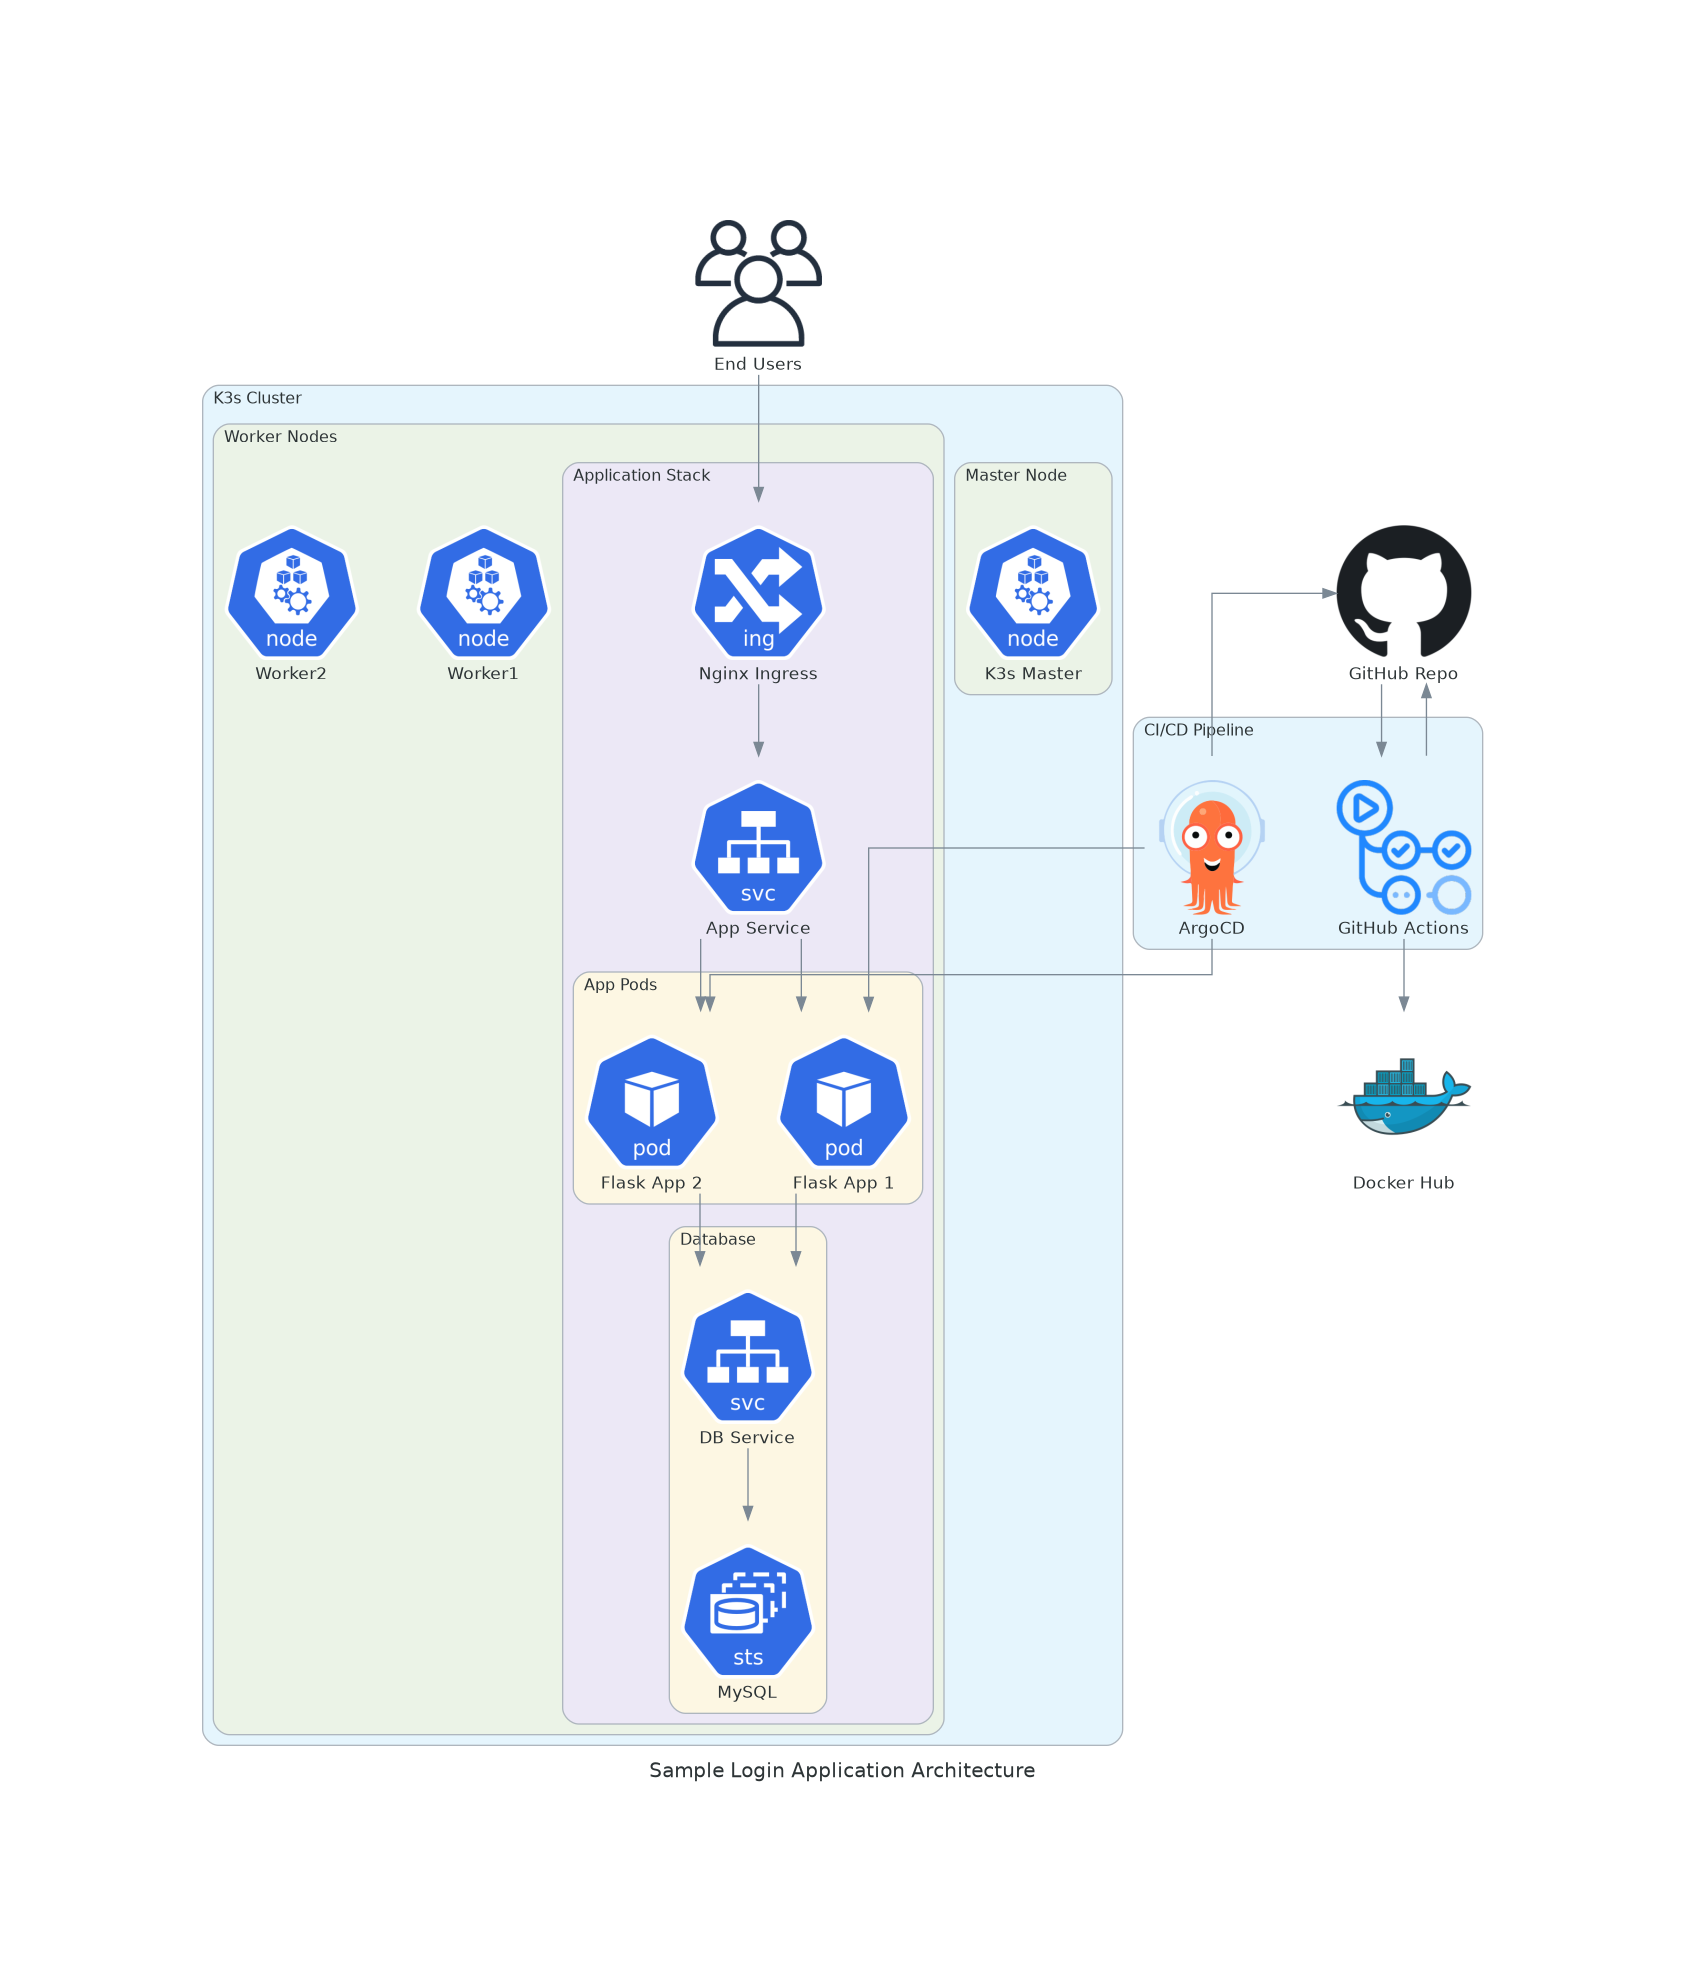
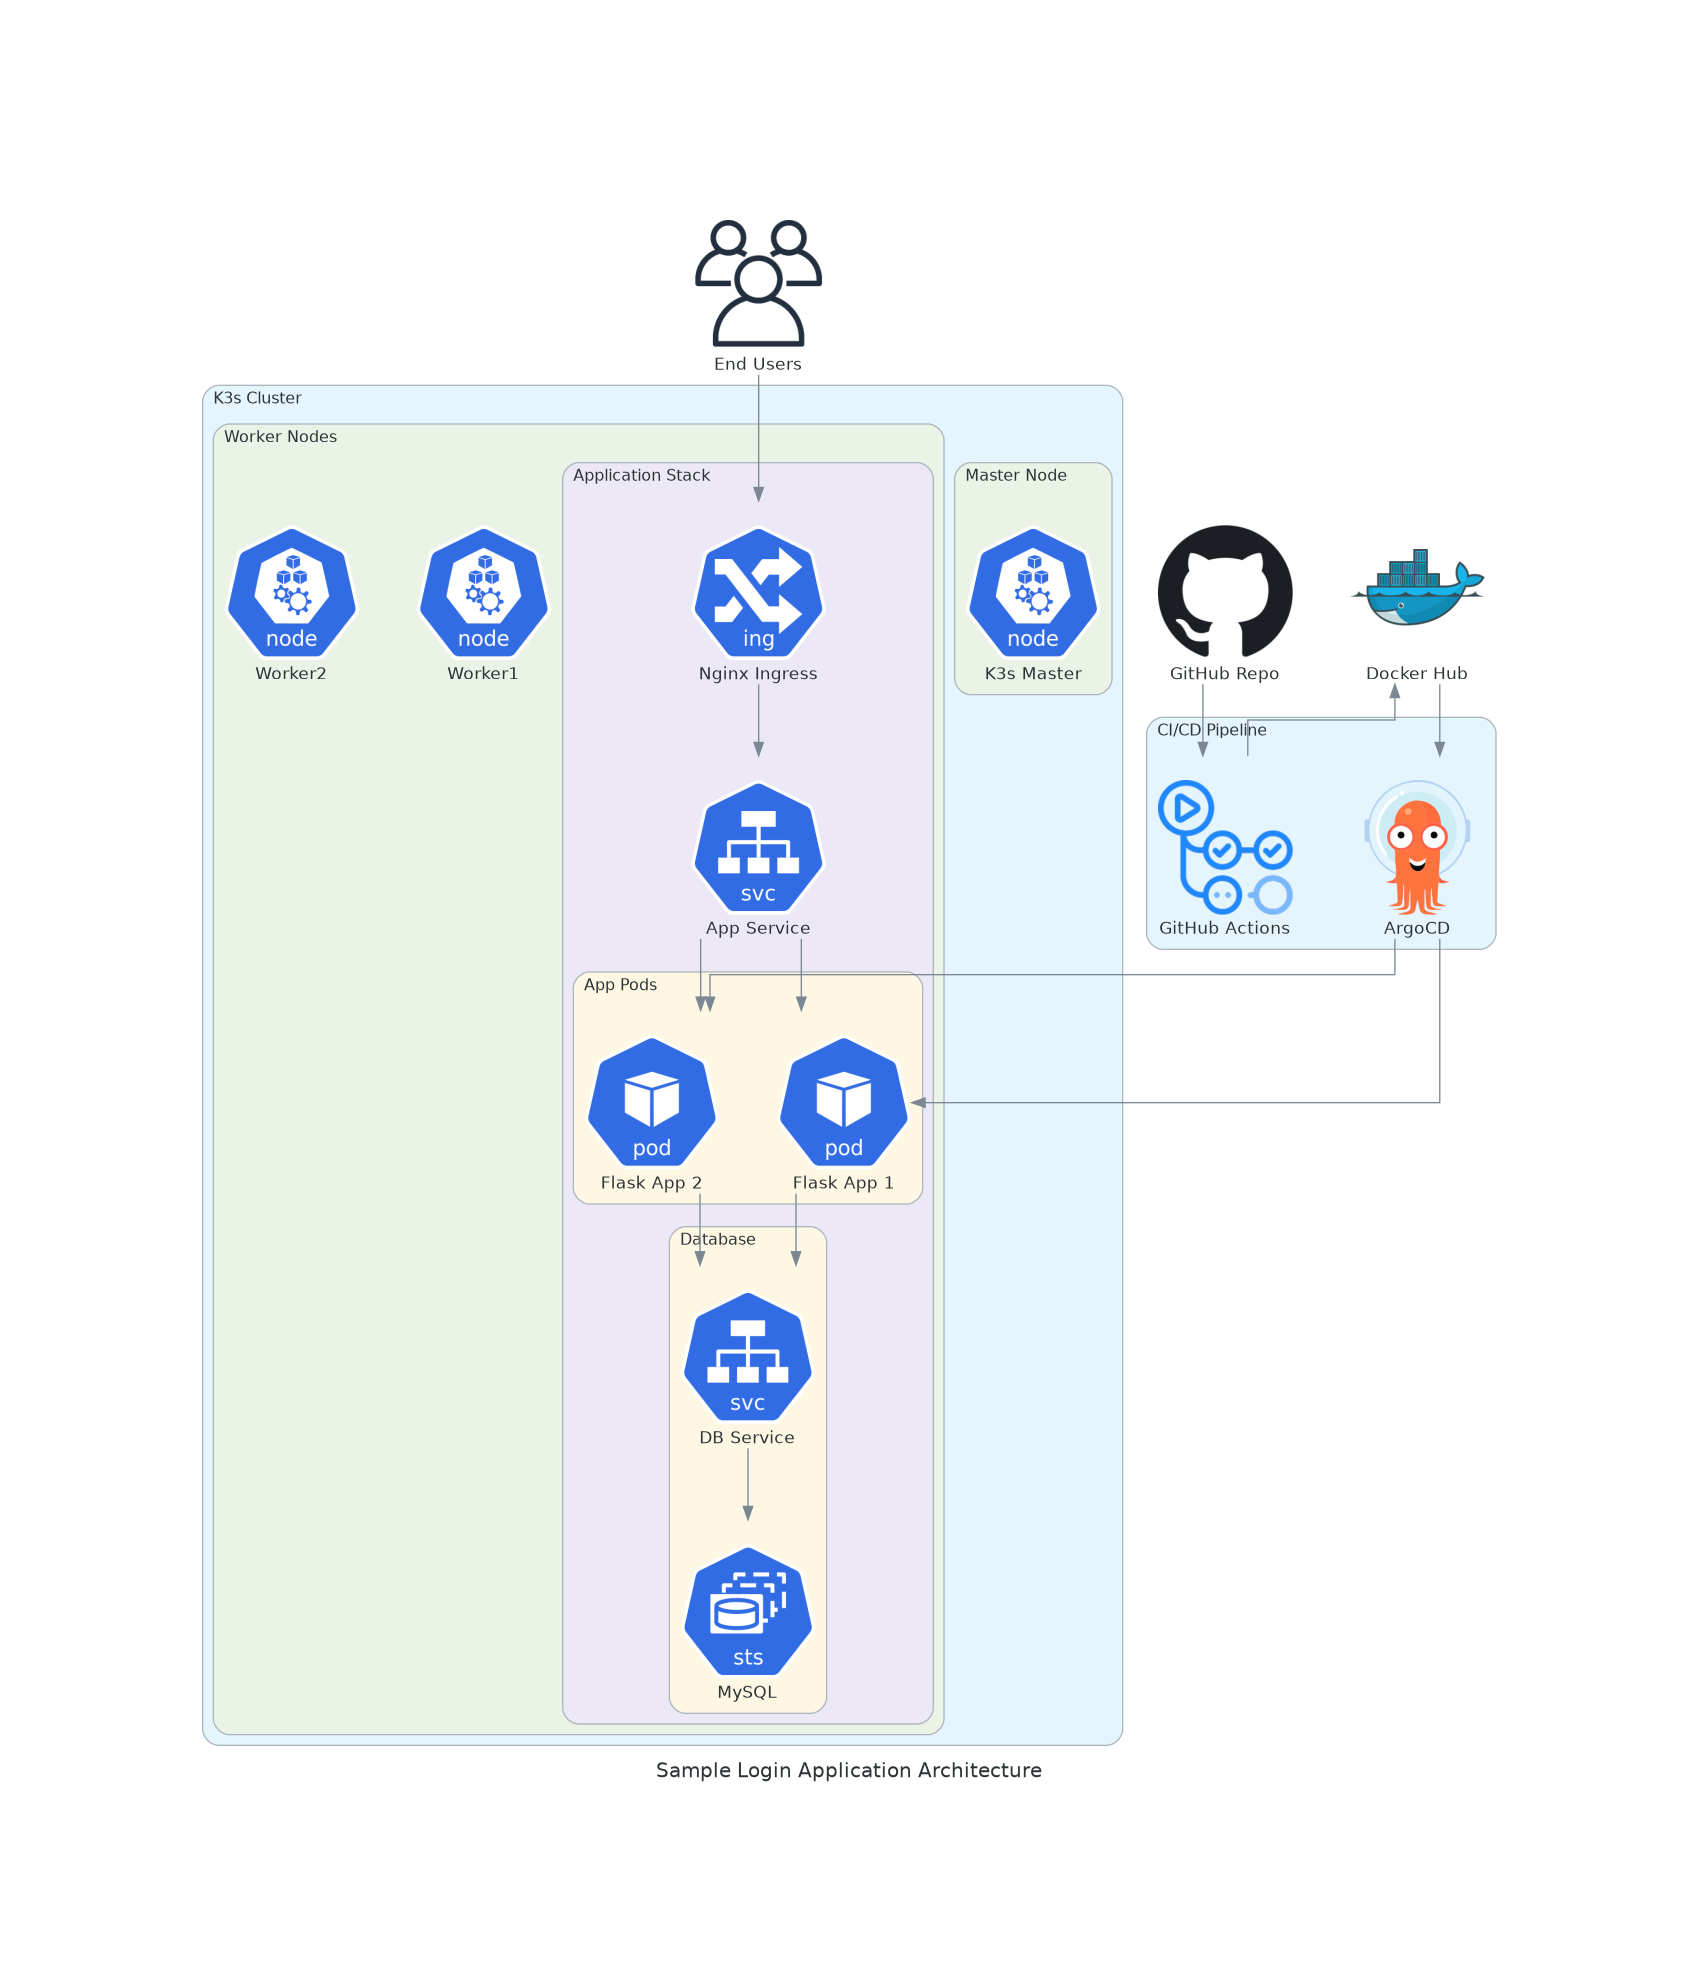
habijabi updated

diff --git a/app.py b/app.py
@@ -9,14 +9,54 @@ from datetime import datetime, timedelta
 from flask_mail import Mail, Message
 import hashlib
 import os
+import time
 from werkzeug.utils import secure_filename  # Add at the top with other imports
 from dotenv import load_dotenv
 load_dotenv()  # Add this near the top of the file
 
 app = Flask(__name__)
 
+# Enhanced MySQL configuration with retry logic
+def get_db_config():
+    return {
+        'MYSQL_HOST': os.getenv('MYSQL_HOST', 'sample-login-mysql'),
+        'MYSQL_USER': os.getenv('MYSQL_USER', 'root'),
+        'MYSQL_PASSWORD': os.getenv('MYSQL_PASSWORD', 'password123'),
+        'MYSQL_DB': os.getenv('MYSQL_DB', 'sample_login'),
+        'MYSQL_PORT': int(os.getenv('MYSQL_PORT', 3306))
+    }
+
+# Configure MySQL with retry mechanism
+def configure_mysql(app):
+    db_config = get_db_config()
+    app.config.update(db_config)
+    
+    mysql = MySQL(app)
+    
+    # Try to connect to MySQL with retries
+    max_retries = 30
+    retry_delay = 2
+    
+    for attempt in range(max_retries):
+        try:
+            conn = mysql.connect()
+            conn.close()
+            print("Successfully connected to MySQL!")
+            return mysql
+        except Exception as e:
+            if attempt < max_retries - 1:
+                print(f"Failed to connect to MySQL (attempt {attempt + 1}/{max_retries}): {str(e)}")
+                print(f"Retrying in {retry_delay} seconds...")
+                time.sleep(retry_delay)
+            else:
+                print("Failed to connect to MySQL after all retries")
+                raise e
+
+# Initialize MySQL with retry logic
+mysql = configure_mysql(app)
+
 # Secret key for session management
-app.secret_key = 'your-secret-key-here'  # Change this to a secure random string
+app.secret_key = os.getenv('SECRET_KEY', 'your-secret-key-here')
 
 # CSRF protection
 csrf = CSRFProtect(app)
@@ -28,16 +68,6 @@ app.config.update(
     SESSION_COOKIE_SAMESITE='Lax',
     PERMANENT_SESSION_LIFETIME=timedelta(minutes=30)
 )
-
-# MySQL configurations
-app.config.update(
-    MYSQL_HOST = os.getenv('MYSQL_HOST', 'localhost'),
-    MYSQL_USER = os.getenv('MYSQL_USER', 'root'),
-    MYSQL_PASSWORD = os.getenv('MYSQL_PASSWORD', 'AppDBPass'),
-    MYSQL_DB = os.getenv('MYSQL_DB', 'sample_login')
-)
-
-mysql = MySQL(app)
 
 # Email configuration
 app.config.update(
@@ -403,9 +433,23 @@ def profile_settings():
 @app.route('/health')
 def health():
     try:
-        return {'status': 'healthy', 'version': '1.0.1'}, 200  # Added version
+        # Test MySQL connection
+        cursor = mysql.connection.cursor()
+        cursor.execute('SELECT 1')
+        cursor.close()
+        return {
+            'status': 'healthy',
+            'version': '1.0.1',
+            'database': 'connected'
+        }, 200
     except Exception as e:
-        return {'status': 'unhealthy', 'error': str(e)}, 500
+        return {
+            'status': 'unhealthy',
+            'error': str(e),
+            'database': 'disconnected'
+        }, 500
 
 if __name__ == '__main__':
-    app.run(host='0.0.0.0', port=5000)  # Remove debug=False
+    port = int(os.getenv('PORT', 5000))
+    host = os.getenv('HOST', '0.0.0.0')
+    app.run(host=host, port=port)

diff --git a/architecture/system_diagram.py b/architecture/system_diagram.py
@@ -7,8 +7,8 @@ from diagrams.onprem.database import MySQL
 from diagrams.onprem.compute import Server
 from diagrams.programming.framework import Flask
 from diagrams.onprem.container import Docker
-from diagrams.onprem.ci import GithubActions  # Updated import
-from diagrams.onprem.gitops import ArgoCD    # Updated import
+from diagrams.onprem.ci import GithubActions
+from diagrams.onprem.gitops import ArgoCD
 from diagrams.onprem.vcs import Github
 from diagrams.onprem.client import Users
 
@@ -58,6 +58,5 @@ with Diagram("Sample Login Application Architecture", show=True, direction="TB")
     # CI/CD Flow
     github >> github_actions
     github_actions >> dockerhub
-    github_actions >> github
-    github << argocd
+    dockerhub >> argocd
     argocd >> app_pods
